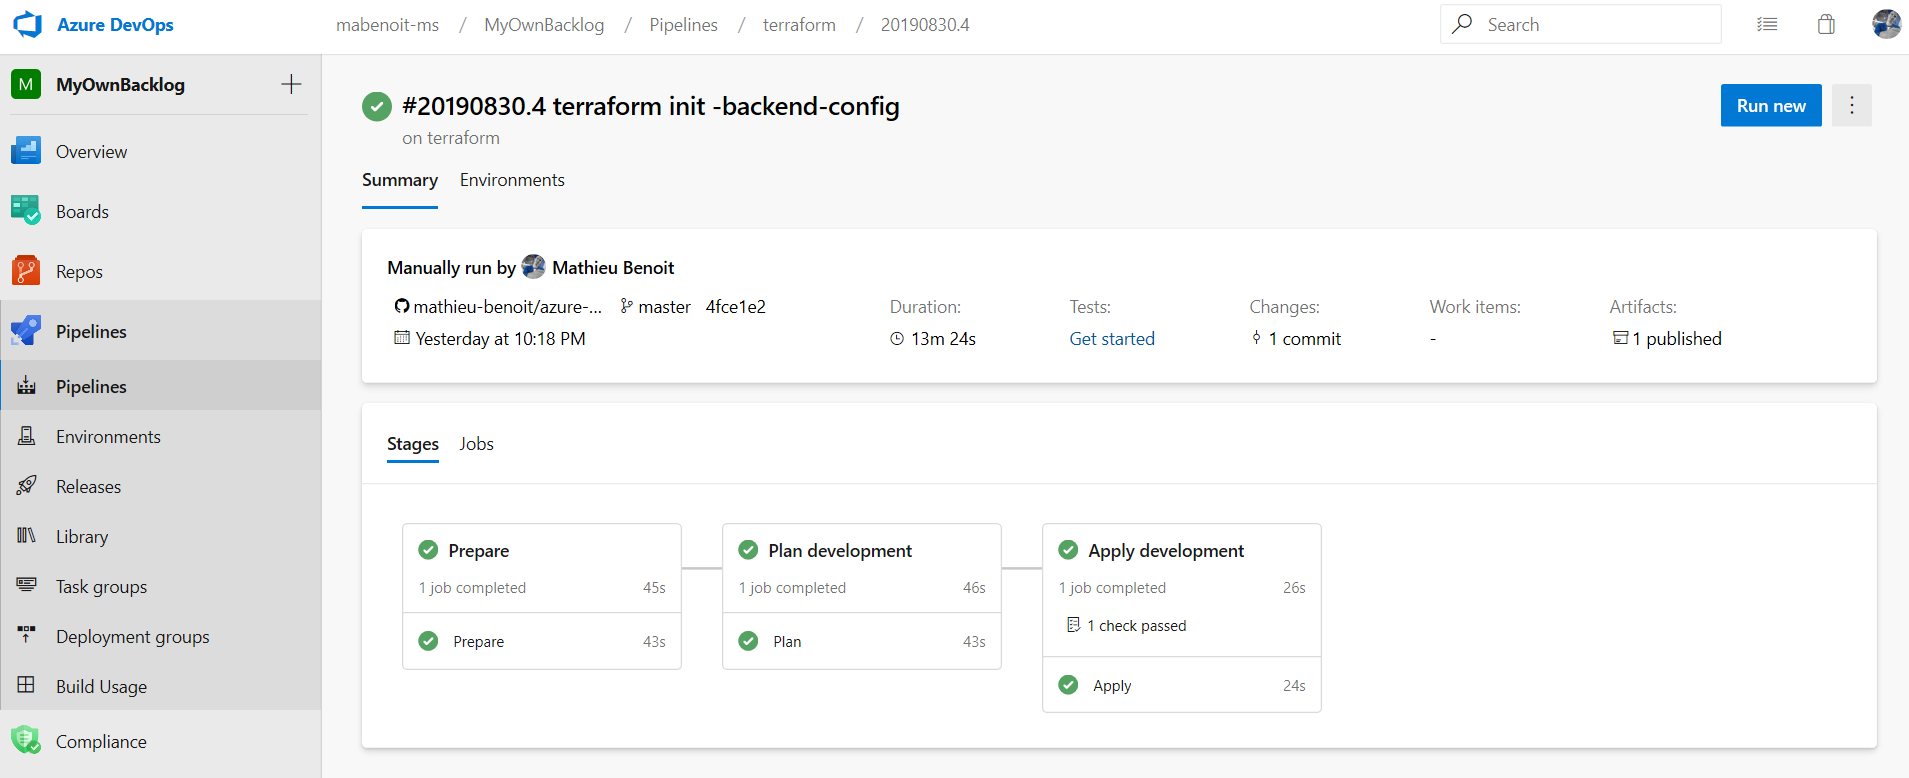
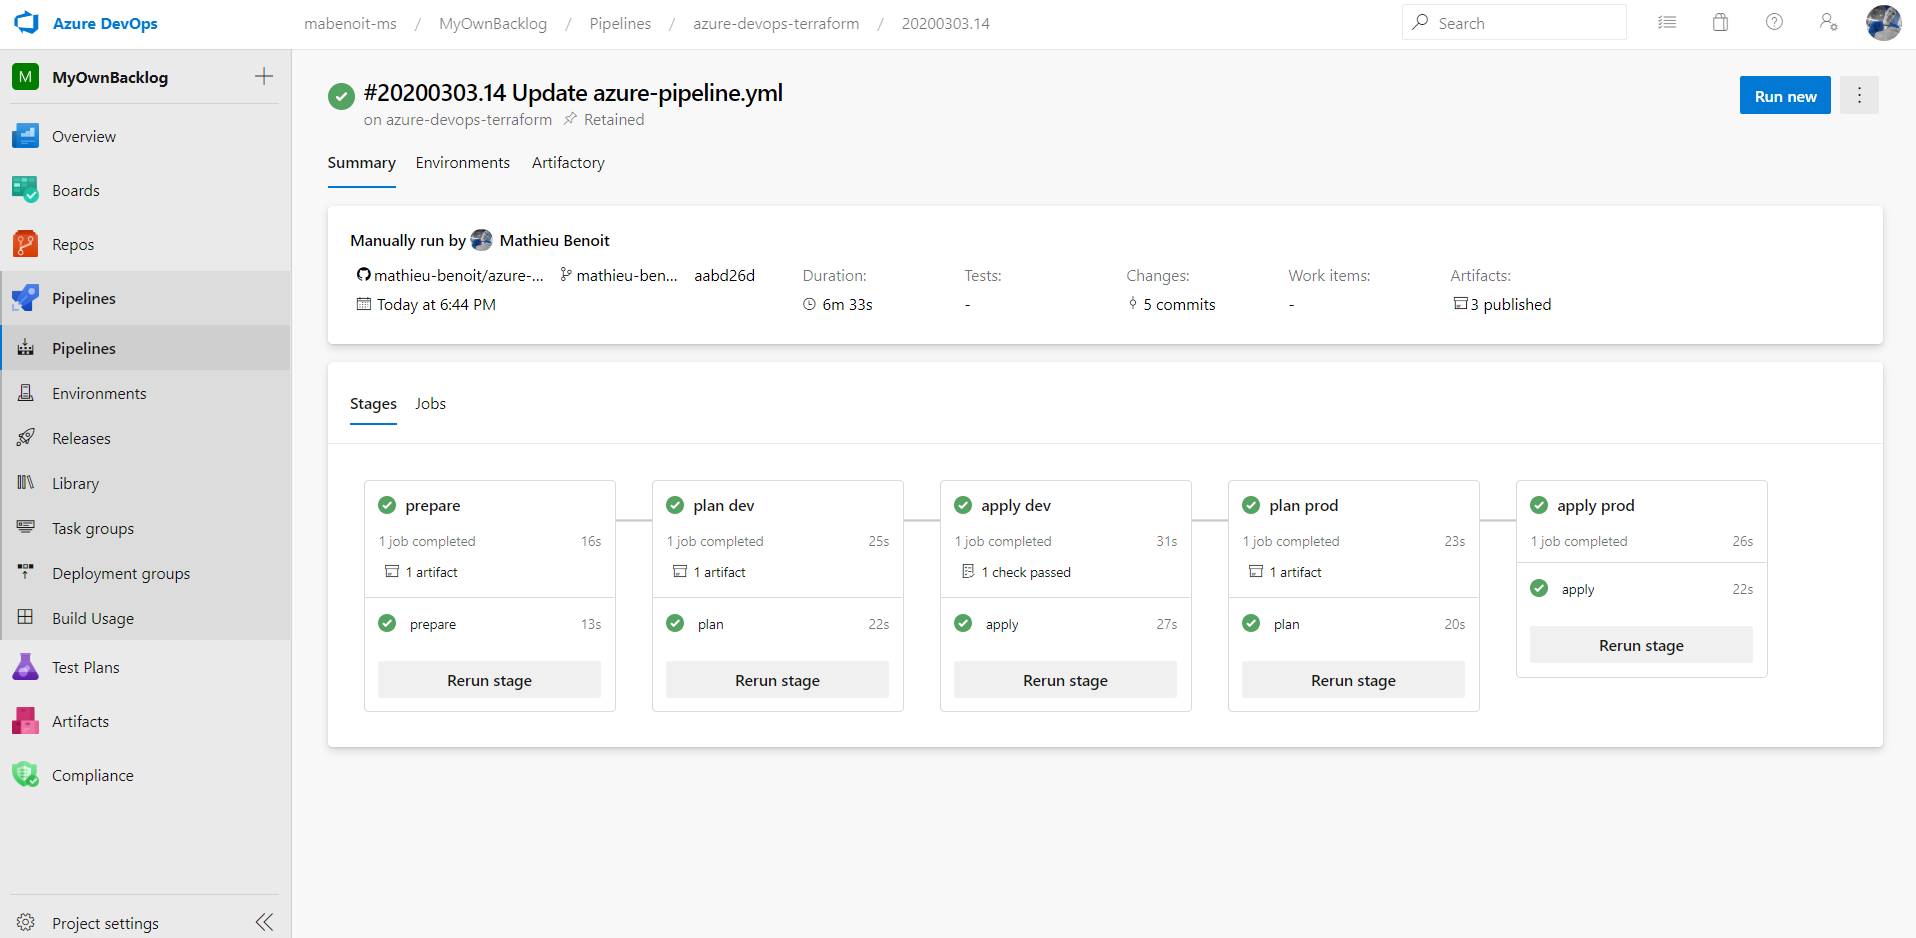
Multiple Environments (#5)
* [skip ci] create azure-pipelines-tf-plan-apply-template.yml

* [skip ci] add parameters capabilities

* reference the template from main ado pipeline definition

* Update azure-pipelines-tf-plan-apply-template.yml

* tfPlanArtifactName as variable in template

* Update azure-pipeline.yml

* Update azure-pipelines-tf-plan-apply-template.yml

* Update azure-pipelines-tf-plan-apply-template.yml

* Update azure-pipelines-tf-plan-apply-template.yml

* Update azure-pipelines-tf-plan-apply-template.yml

* add prod env in main ado pipeline

* skipComponentGovernanceDetection: true

* [skip ci] lowercase job/stage name

* [skip ci] lowercase job/stage name

* Update azure-pipeline.yml

* Add files via upload

* ado badges per stage

* Update README.md

diff --git a/README.md b/README.md
@@ -1,6 +1,10 @@
-| Branch | Status |
+| phase | Status |
 |--------|--------|
-| master |[![Build Status](https://dev.azure.com/mabenoit-ms/MyOwnBacklog/_apis/build/status/azure-devops-terraform?branchName=master)](https://dev.azure.com/mabenoit-ms/MyOwnBacklog/_build/latest?definitionId=113&branchName=master)|
+| prepare |[![Build Status](https://dev.azure.com/mabenoit-ms/MyOwnBacklog/_apis/build/status/azure-devops-terraform?branchName=master&stageName=prepare)](https://dev.azure.com/mabenoit-ms/MyOwnBacklog/_build/latest?definitionId=113&branchName=master)|
+| plan dev |[![Build Status](https://dev.azure.com/mabenoit-ms/MyOwnBacklog/_apis/build/status/azure-devops-terraform?branchName=master&stageName=plan%20dev)](https://dev.azure.com/mabenoit-ms/MyOwnBacklog/_build/latest?definitionId=113&branchName=master)|
+| apply dev |[![Build Status](https://dev.azure.com/mabenoit-ms/MyOwnBacklog/_apis/build/status/azure-devops-terraform?branchName=master&stageName=apply%20dev)](https://dev.azure.com/mabenoit-ms/MyOwnBacklog/_build/latest?definitionId=113&branchName=master)|
+| plan prod |[![Build Status](https://dev.azure.com/mabenoit-ms/MyOwnBacklog/_apis/build/status/azure-devops-terraform?branchName=master&stageName=plan%20prod)](https://dev.azure.com/mabenoit-ms/MyOwnBacklog/_build/latest?definitionId=113&branchName=master)|
+| apply prod |[![Build Status](https://dev.azure.com/mabenoit-ms/MyOwnBacklog/_apis/build/status/azure-devops-terraform?branchName=master&stageName=apply%20prod)](https://dev.azure.com/mabenoit-ms/MyOwnBacklog/_build/latest?definitionId=113&branchName=master)|
 
 Terraform deployment with Azure DevOps, leveraging Azure pipelines in [YAML](http://aka.ms/yaml) with [Environment](https://docs.microsoft.com/azure/devops/pipelines/yaml-schema#environment) and [Checks](https://docs.microsoft.com/azure/devops/pipelines/process/checks).
 
@@ -99,7 +103,7 @@ az pipelines show \
 
 > Note: You could repeat this Variable Groups setup above per `environment`: QA, PROD, etc.
 
-Optionaly, you could pause this pipeline by adding a manual approval step on the Environment by setting up a [Check Approval](https://docs.microsoft.com/azure/devops/pipelines/process/checks#approvals). Like defining in my [azure-pipeline.yml](azure-pipeline.yml) file, this manual approval is right after `terraform plan` and right before `terraform apply`, a good way to make sure everything will be deployed as expected.
+Optionaly, you could pause this pipeline by adding a manual approval step on the Environment by setting up a [Check Approval](https://docs.microsoft.com/azure/devops/pipelines/process/checks#approvals). This manual approval is right after `terraform plan` and right before `terraform apply`, a good way to make sure everything will be deployed as expected.
 
 # Further considerations
 
